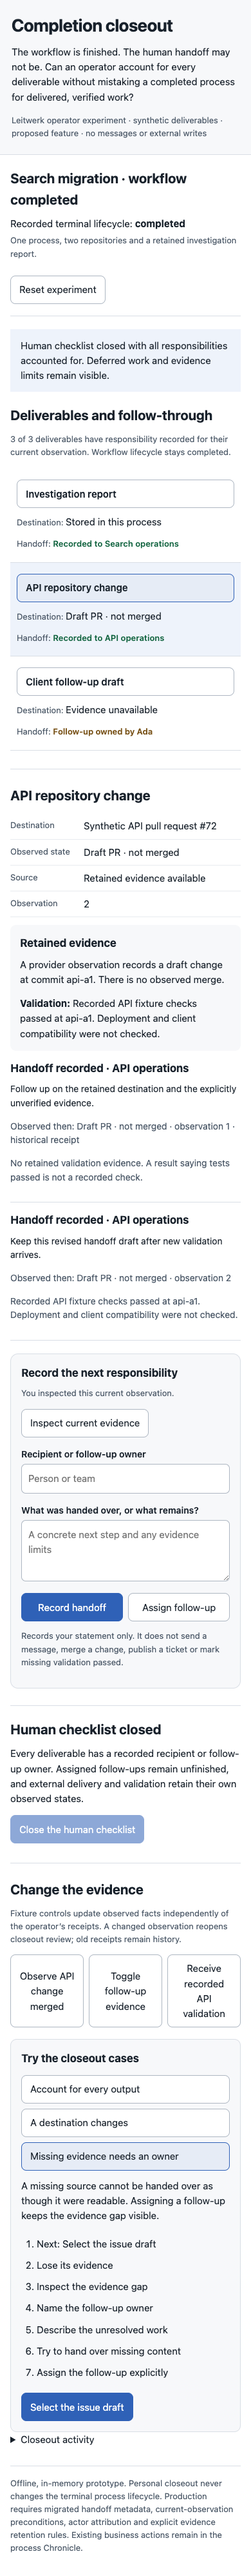
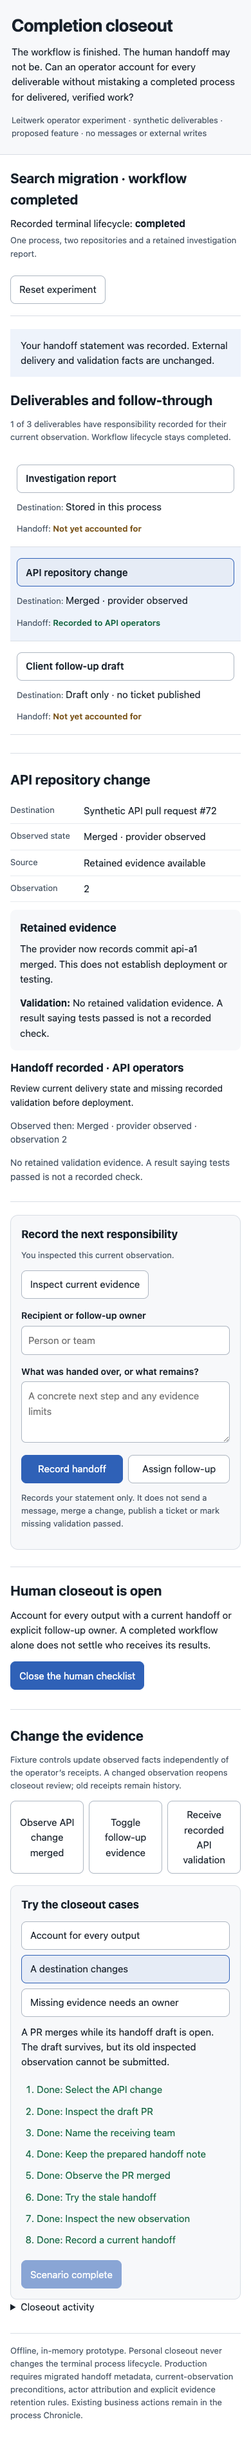
fix(prototype): bind operator review behavior for idea 39

Changed region(s): [[0.0308, 0.0, 0.9231, 0.9968]]

diff --git a/tools/prototypes/39-completion-closeout/index.html b/tools/prototypes/39-completion-closeout/index.html
@@ -1,6 +1,6 @@
 <!doctype html><html lang="en"><head><meta charset="utf-8"><meta name="viewport" content="width=device-width,initial-scale=1"><title>Completion closeout · Leitwerk prototype</title>
 <style>
-:root{font:15px/1.55 ui-sans-serif,system-ui,sans-serif;color:#18212b;background:white;--muted:#4c5968;--line:#d9dee5;--blue:#2f61b7}*{box-sizing:border-box}body{margin:0}::selection{background:#dbe7fa}button,input,textarea,select{font:inherit;color:inherit;caret-color:var(--blue)}button,select{min-height:44px;border:1px solid #aeb7c2;background:white;border-radius:8px;padding:9px 13px}button{cursor:pointer}button:hover{background:#edf2fa}button:disabled{opacity:.55;cursor:default}.primary{background:var(--blue);border-color:var(--blue);color:white}:focus-visible{outline:3px solid var(--blue);outline-offset:3px}button[aria-pressed=true]{background:#e6ecf6;border-color:var(--blue)}header{background:#f7f8fa;border-bottom:1px solid var(--line);padding:30px max(24px,calc((100vw - 1180px)/2))}h1{font-size:30px;line-height:1.25;letter-spacing:-.02em;margin:0 0 12px}h2{font-size:21px;margin:0 0 10px}h3{font-size:17px;margin:0 0 8px}p{margin:8px 0 14px}.intro{max-width:76ch}.hint,.meta{font-size:13px;color:var(--muted)}.meta{overflow-wrap:anywhere}.prototype{font-size:13px;color:var(--muted);margin:0}main{max-width:1228px;padding:24px;margin:auto}.terminal{display:flex;justify-content:space-between;gap:20px;align-items:start;border-bottom:1px solid var(--line);padding-bottom:18px}.terminal p{margin:4px 0}.notice{padding:14px 16px;background:#eef3fb;margin:20px 0}.notice.error{background:#fbeeea;color:#7d2d27}.ledger{width:100%;border-collapse:collapse;margin-top:16px}.ledger th{text-align:left;color:var(--muted);font-size:13px;font-weight:600;padding:10px 12px;border-bottom:1px solid var(--line)}.ledger td{padding:14px 12px;border-bottom:1px solid var(--line);vertical-align:top}.ledger tr.selected{background:#eef3fb}.ledger button{text-align:left;font-weight:600;width:100%}.status{font-size:13px;font-weight:600}.green{color:#126440}.amber{color:#795319}.review{margin-top:28px;padding-top:24px;border-top:1px solid var(--line);display:grid;grid-template-columns:minmax(0,1.2fr) minmax(300px,1fr);gap:30px}.facts{margin:12px 0}.facts div{display:grid;grid-template-columns:130px 1fr;gap:14px;padding:8px 0;border-bottom:1px solid #e8ebef}.facts dt{color:var(--muted);font-size:13px}.facts dd{margin:0;overflow-wrap:anywhere}.evidence{padding:15px;background:#f7f8fa;border-radius:9px}.evidence p:last-child{margin-bottom:0}.receipt{padding:14px 0;border-bottom:1px solid var(--line)}.receipt p{font-size:14px}.form{padding:20px;border:1px solid var(--line);border-radius:12px;background:#f7f8fa;align-self:start}.form label{display:block;font-weight:600;font-size:14px;margin:15px 0 5px}input,textarea{width:100%;padding:10px;border:1px solid #aeb7c2;border-radius:7px;background:white}textarea{min-height:95px;resize:vertical}.actions{display:flex;flex-wrap:wrap;gap:8px;margin:12px 0}.actions button{flex:1}.closeout{margin-top:26px;border-top:1px solid var(--line);padding-top:20px}.closeout p{max-width:80ch}.simulation{margin-top:30px;padding-top:24px;border-top:1px solid var(--line)}.simulation>p{max-width:80ch}.guided{padding:20px;background:#f7f8fa;border:1px solid var(--line);border-radius:10px;margin-top:18px}.tabs{display:flex;flex-wrap:wrap;gap:8px;margin:12px 0}.steps{padding-left:24px}.steps li{padding:5px 0}.done{color:#126440}.log{font-size:13px;max-height:160px;overflow:auto;padding-left:22px}.log li{padding:4px 0}footer{margin-top:28px;border-top:1px solid var(--line);padding-top:16px;font-size:13px;color:var(--muted)}@media(max-width:780px){.review{grid-template-columns:1fr;gap:20px}}@media(max-width:520px){header{padding:23px 18px}main{padding:20px 16px 34px}h1{font-size:27px}.terminal{flex-wrap:wrap}.ledger,.ledger tbody,.ledger tr,.ledger td{display:block}.ledger thead{display:none}.ledger tr{padding:12px 0;border-bottom:1px solid var(--line)}.ledger td{border:0;padding:5px 10px}.ledger td[data-label]::before{content:attr(data-label) ': ';color:var(--muted);font-size:13px}.tabs button{width:100%;text-align:left}.facts div{grid-template-columns:100px 1fr}.form,.guided{padding:16px}}
+:root{font:15px/1.55 ui-sans-serif,system-ui,sans-serif;color:#18212b;background:white;--muted:#4c5968;--line:#d9dee5;--blue:#2f61b7}*{box-sizing:border-box}body{margin:0}::selection{background:#dbe7fa}button,input,textarea,select{font:inherit;color:inherit;caret-color:var(--blue)}button,select{min-height:44px;border:1px solid #aeb7c2;background:white;border-radius:8px;padding:9px 13px}button{cursor:pointer}button:hover{background:#edf2fa}button.primary:hover{background:#244f99;color:#fff}button:disabled{opacity:.55;cursor:default}.primary{background:var(--blue);border-color:var(--blue);color:white}:focus-visible{outline:3px solid var(--blue);outline-offset:3px}button[aria-pressed=true]{background:#e6ecf6;border-color:var(--blue)}header{background:#f7f8fa;border-bottom:1px solid var(--line);padding:30px max(24px,calc((100vw - 1180px)/2))}h1{font-size:30px;line-height:1.25;letter-spacing:-.02em;margin:0 0 12px}h2{font-size:21px;margin:0 0 10px}h3{font-size:17px;margin:0 0 8px}p{margin:8px 0 14px}.intro{max-width:76ch}.hint,.meta{font-size:13px;color:var(--muted)}.meta{overflow-wrap:anywhere}.prototype{font-size:13px;color:var(--muted);margin:0}main{max-width:1228px;padding:24px;margin:auto}.terminal{display:flex;justify-content:space-between;gap:20px;align-items:start;border-bottom:1px solid var(--line);padding-bottom:18px}.terminal p{margin:4px 0}.notice{padding:14px 16px;background:#eef3fb;margin:20px 0}.notice.error{background:#fbeeea;color:#7d2d27}.ledger{width:100%;border-collapse:collapse;margin-top:16px}.ledger th{text-align:left;color:var(--muted);font-size:13px;font-weight:600;padding:10px 12px;border-bottom:1px solid var(--line)}.ledger td{padding:14px 12px;border-bottom:1px solid var(--line);vertical-align:top}.ledger tr.selected{background:#eef3fb}.ledger button{text-align:left;font-weight:600;width:100%}.status{font-size:13px;font-weight:600}.green{color:#126440}.amber{color:#795319}.review{margin-top:28px;padding-top:24px;border-top:1px solid var(--line);display:grid;grid-template-columns:minmax(0,1.2fr) minmax(300px,1fr);gap:30px}.facts{margin:12px 0}.facts div{display:grid;grid-template-columns:130px 1fr;gap:14px;padding:8px 0;border-bottom:1px solid #e8ebef}.facts dt{color:var(--muted);font-size:13px}.facts dd{margin:0;overflow-wrap:anywhere}.evidence{padding:15px;background:#f7f8fa;border-radius:9px}.evidence p:last-child{margin-bottom:0}.receipt{padding:14px 0;border-bottom:1px solid var(--line)}.receipt p{font-size:14px}.form{padding:20px;border:1px solid var(--line);border-radius:12px;background:#f7f8fa;align-self:start}.form label{display:block;font-weight:600;font-size:14px;margin:15px 0 5px}input,textarea{width:100%;padding:10px;border:1px solid #aeb7c2;border-radius:7px;background:white}textarea{min-height:95px;resize:vertical}.actions{display:flex;flex-wrap:wrap;gap:8px;margin:12px 0}.actions button{flex:1}.closeout{margin-top:26px;border-top:1px solid var(--line);padding-top:20px}.closeout p{max-width:80ch}.simulation{margin-top:30px;padding-top:24px;border-top:1px solid var(--line)}.simulation>p{max-width:80ch}.guided{padding:20px;background:#f7f8fa;border:1px solid var(--line);border-radius:10px;margin-top:18px}.tabs{display:flex;flex-wrap:wrap;gap:8px;margin:12px 0}.steps{padding-left:24px}.steps li{padding:5px 0}.done{color:#126440}.log{font-size:13px;max-height:160px;overflow:auto;padding-left:22px}.log li{padding:4px 0}footer{margin-top:28px;border-top:1px solid var(--line);padding-top:16px;font-size:13px;color:var(--muted)}@media(max-width:780px){.review{grid-template-columns:1fr;gap:20px}}@media(max-width:520px){header{padding:23px 18px}main{padding:20px 16px 34px}h1{font-size:27px}.terminal{flex-wrap:wrap}.ledger,.ledger tbody,.ledger tr,.ledger td{display:block}.ledger thead{display:none}.ledger tr{padding:12px 0;border-bottom:1px solid var(--line)}.ledger td{border:0;padding:5px 10px}.ledger td[data-label]::before{content:attr(data-label) ': ';color:var(--muted);font-size:13px}.tabs button{width:100%;text-align:left}.facts div{grid-template-columns:100px 1fr}.form,.guided{padding:16px}}
 </style></head><body><header><h1>Completion closeout</h1><p class="intro">The workflow is finished. The human handoff may not be. Can an operator account for every deliverable without mistaking a completed process for delivered, verified work?</p><p class="prototype">Leitwerk operator experiment · synthetic deliverables · proposed feature · no messages or external writes</p></header><main>
 <div class="terminal"><div><h2>Search migration · workflow completed</h2><p>Recorded terminal lifecycle: <strong>completed</strong></p><p class="hint">One process, two repositories and a retained investigation report.</p></div><button type="button" id="reset">Reset experiment</button></div><div id="notice" class="notice" role="status" aria-live="polite"></div>
 <section aria-labelledby="deliverables-heading"><h2 id="deliverables-heading">Deliverables and follow-through</h2><p id="coverage" class="hint"></p><table class="ledger"><thead><tr><th>Deliverable</th><th>Observed destination state</th><th>Human handoff</th></tr></thead><tbody id="rows"></tbody></table></section>
@@ -43,5 +43,5 @@ function render(){const i=CloseoutModel.item(state,state.selected),d=state.draft
  $('tabs').innerHTML=scenarios.map((s,n)=>`<button type="button" data-scenario="${n}" aria-pressed="${n===scenario}">${esc(s.title)}</button>`).join('');$('description').textContent=scenarios[scenario].description;$('steps').innerHTML=scenarios[scenario].steps.map((s,n)=>`<li class="${n<step?'done':''}">${n<step?'Done: ':n===step?'Next: ':''}${esc(s[0])}</li>`).join('');$('next').textContent=scenarios[scenario].steps[step]?.[0]||'Scenario complete';$('next').disabled=step>=scenarios[scenario].steps.length;$('log').innerHTML=state.log.map(t=>`<li>${esc(t)}</li>`).join('')||'<li>No closeout activity yet.</li>';
 }
 $('rows').onclick=e=>{if(e.target.dataset.select)act({type:'select',id:e.target.dataset.select});};$('recipient').oninput=e=>{state=CloseoutModel.reduce(state,{type:'draft',id:state.selected,field:'recipient',text:e.target.value}).state;};$('handoff-note').oninput=e=>{state=CloseoutModel.reduce(state,{type:'draft',id:state.selected,field:'note',text:e.target.value}).state;};
-for(const id of ['inspect','handoff','defer','close','merge','missing','validation'])$(id).onclick=()=>act({type:id});$('reset').onclick=()=>{step=0;act({type:'reset'});};$('tabs').onclick=e=>{if(e.target.dataset.scenario!==undefined){scenario=Number(e.target.dataset.scenario);step=0;act({type:'reset'});}};$('next').onclick=()=>{const s=scenarios[scenario].steps[step];if(!s)return;const ok=act(s[1]);if(ok===(s[2]!==false)&&(!s[3]||state.notice.includes(s[3])))step++;render();};render();
+for(const id of ['inspect','handoff','defer','close','merge','missing','validation'])$(id).onclick=()=>act({type:id});$('reset').onclick=()=>{step=0;act({type:'reset'});};$('tabs').onclick=e=>{if(e.target.dataset.scenario!==undefined){scenario=Number(e.target.dataset.scenario);step=0;act({type:'reset'});}};$('next').onclick=()=>{const s=scenarios[scenario].steps[step];if(!s)return;const target=['report','api','followup'][scenario];const scoped=['inspect','draft','handoff','defer'].includes(s[1].type);if(scoped&&state.selected!==target){state.notice=`This guided step concerns ${CloseoutModel.item(state,target).title}. Select that deliverable before continuing; every draft is preserved.`;state.tone='error';render();return;}if(s[3]==='Evidence changed'&&!(typeof state.inspected.api==='number'&&state.inspected.api<CloseoutModel.item(state,'api').observation)){state.notice='This step requires the API observation to have changed after its earlier inspection. Restart the case to observe that race; your drafts are preserved.';state.tone='error';render();return;}const ok=act(s[1]);const receipt=CloseoutModel.receipt(state,target);const expectedReceipt=!ok||!['handoff','defer'].includes(s[1].type)||(receipt?.id===target&&receipt.kind===s[1].type&&receipt.observation===CloseoutModel.item(state,target).observation);if(ok===(s[2]!==false)&&(!s[3]||state.notice.includes(s[3]))&&expectedReceipt)step++;render();};render();
 </script></body></html>

diff --git a/tools/prototypes/39-completion-closeout/README.md b/tools/prototypes/39-completion-closeout/README.md
@@ -14,6 +14,8 @@ The human checklist closes when each deliverable has a current handoff or owned 
 
 Three guided cases exercise a partial handoff with an appropriately refused early close, a destination changing while a handoff draft is open, and missing evidence that requires an explicit owner. Free play can finish the entire closeout, add later validation observations and recheck stale receipts. Selection changes and rejected submissions preserve per-deliverable drafts.
 
+Each item-scoped guide step requires its named deliverable. The stale-API case requires an earlier API inspection and a changed observation; completion requires a current API receipt.
+
 ## Integration seams and proposed contracts
 
 - `packages/ui/src/chronicle/components/ChronicleTerminalSummary.svelte`: the current terminal summary is the natural entry into closeout, while retaining its existing lifecycle meaning.
